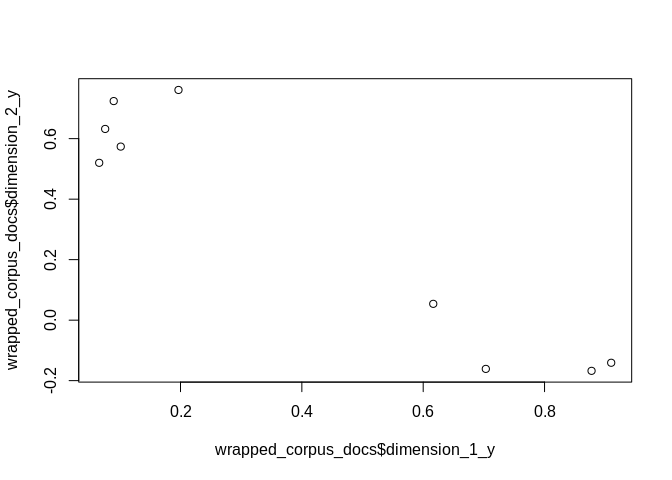
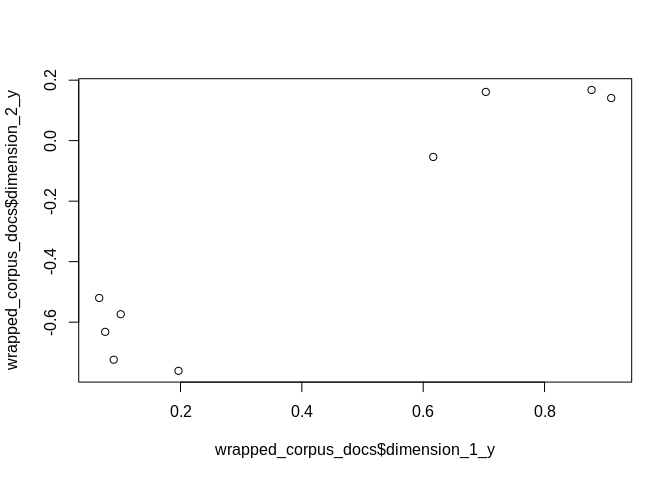
LDA added

diff --git a/README.md b/README.md
@@ -104,35 +104,40 @@ dictionary$doc2bow(docs[[1]])
 #> [(0, 1), (1, 1), (2, 1)]
 
 # apply to all documents
-corpus <- doc2bow(dictionary, docs)
+corpus_bow <- doc2bow(dictionary, docs)
 ```
 
 Then convert to matrix market format and serialise, the function returns the path to the file (this is saved on disk for efficiency), if no path is passed then a temp file is created.
 
 ``` r
-(mm_corpus <- mmcorpus_serialize(corpus))
-#> ℹ Path: /tmp/Rtmpg3xX7g/file2813411f993d.mm 
+(corpus_mm <- mmcorpus_serialize(corpus_bow))
+#> ℹ Path: /tmp/RtmpZL0HP3/file1b9f439b5c9e.mm 
 #>  ✔ Temp file
 ```
 
 Then initialise a model, we're going to use a Latent Similarity Indexing method later on (`model_lsi`) which requires td-idf.
 
 ``` r
-model <- model_tfidf(mm_corpus)
+tfidf <- model_tfidf(corpus_mm)
 ```
 
 We can then use the model to transform our original corpus.
 
 ``` r
-corpus_transformed <- corpora_transform(model, corpus)
+corpus_transformed <- corpora_transform(tfidf, corpus_bow)
 ```
 
-Finally, we build the model, the number of topics defautls to 2.
+Finally, we can build models, the number of topics of `model_*` functions defautls to 2, which is too low for what we generally would do with gensimr but works for the low number of documents we have.
+
+### Latent Similarity Index
+
+Note that we use the transformed corpus.
 
 ``` r
 lsi <- model_lsi(corpus_transformed, id2word = dictionary)
+#> ⚠ Low number of topics
 lsi$print_topics()
-#> [(0, '0.703*"trees" + 0.538*"graph" + 0.402*"minors" + 0.187*"survey" + 0.061*"system" + 0.060*"response" + 0.060*"time" + 0.058*"user" + 0.049*"computer" + 0.035*"interface"'), (1, '0.460*"system" + 0.373*"user" + 0.332*"eps" + 0.328*"interface" + 0.320*"time" + 0.320*"response" + 0.293*"computer" + 0.280*"human" + 0.171*"survey" + -0.161*"trees"')]
+#> [(0, '0.703*"trees" + 0.538*"graph" + 0.402*"minors" + 0.187*"survey" + 0.061*"system" + 0.060*"time" + 0.060*"response" + 0.058*"user" + 0.049*"computer" + 0.035*"interface"'), (1, '-0.460*"system" + -0.373*"user" + -0.332*"eps" + -0.328*"interface" + -0.320*"time" + -0.320*"response" + -0.293*"computer" + -0.280*"human" + -0.171*"survey" + 0.161*"trees"')]
 ```
 
 We can then wrap the model around the corpus to extract further information, below we extract how each document contribute to each dimension (topic).
@@ -143,16 +148,55 @@ wrapped_corpus <- wrap_corpus(lsi, corpus_transformed)
 #> # A tibble: 9 x 4
 #>   dimension_1_x dimension_1_y dimension_2_x dimension_2_y
 #>           <dbl>         <dbl>         <dbl>         <dbl>
-#> 1             0        0.0660             1        0.520 
-#> 2             0        0.197              1        0.761 
-#> 3             0        0.0899             1        0.724 
-#> 4             0        0.0759             1        0.632 
-#> 5             0        0.102              1        0.574 
-#> 6             0        0.703              1       -0.161 
-#> 7             0        0.877              1       -0.168 
-#> 8             0        0.910              1       -0.141 
-#> 9             0        0.617              1        0.0539
+#> 1             0        0.0660             1       -0.520 
+#> 2             0        0.197              1       -0.761 
+#> 3             0        0.0899             1       -0.724 
+#> 4             0        0.0759             1       -0.632 
+#> 5             0        0.102              1       -0.574 
+#> 6             0        0.703              1        0.161 
+#> 7             0        0.877              1        0.168 
+#> 8             0        0.910              1        0.141 
+#> 9             0        0.617              1       -0.0539
 plot(wrapped_corpus_docs$dimension_1_y, wrapped_corpus_docs$dimension_2_y)
 ```
 
 <img src="man/figures/README-unnamed-chunk-10-1.png" width="100%" />
+
+### Random Projections
+
+Note that we use the transformed corpus.
+
+``` r
+rp <- model_rp(corpus_transformed, id2word = dictionary)
+#> ⚠ Low number of topics
+
+wrapped_corpus <- wrap_corpus(rp, corpus_transformed)
+(wrapped_corpus_docs <- wrap_corpus_docs(wrapped_corpus))
+#> # A tibble: 9 x 4
+#>   dimension_1_x dimension_1_y dimension_2_x dimension_2_y
+#>           <dbl>         <dbl>         <dbl>         <dbl>
+#> 1             0        -0.408             1         0.408
+#> 2             0         1.09              1         1.09 
+#> 3             0        -0.218             1         0.590
+#> 4             0        -0.188             1        -0.188
+#> 5             0         1.21              1         1.21 
+#> 6             0         0.707             1        -0.707
+#> 7             1        -1                NA        NA    
+#> 8             0        -0.492             1        -1.21 
+#> 9             0        -1.21              1        -1.21
+```
+
+### Latent Dirichlet Allocation
+
+Note that we use the original, non-transformed corpus.
+
+``` r
+corpus_mm <- mmcorpus_serialize(corpus_bow)
+lda <- model_lda(corpus_mm, id2word = dictionary)
+#> ⚠ Low number of topics
+lda$get_topics()
+#> [[0.05014224 0.06651548 0.07887903 0.05799899 0.08775716 0.16206779
+#>   0.04663812 0.07614656 0.09794857 0.0804041  0.09779173 0.09771022]
+#>  [0.09247578 0.07874997 0.0683854  0.08588932 0.0609428  0.08832102
+#>   0.09541334 0.11551291 0.05239927 0.11194375 0.09736755 0.05259901]]
+```
